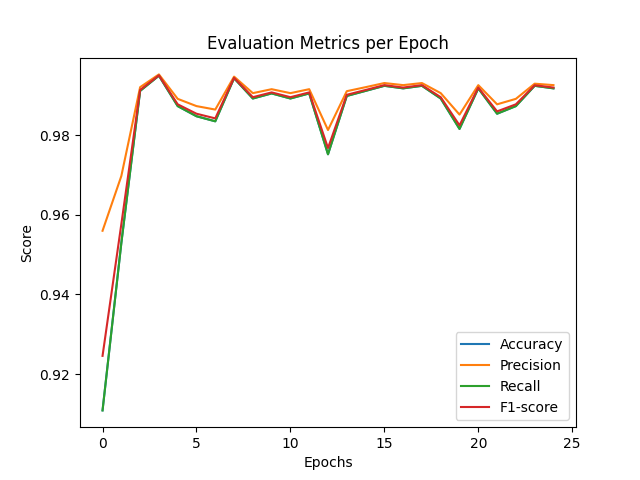
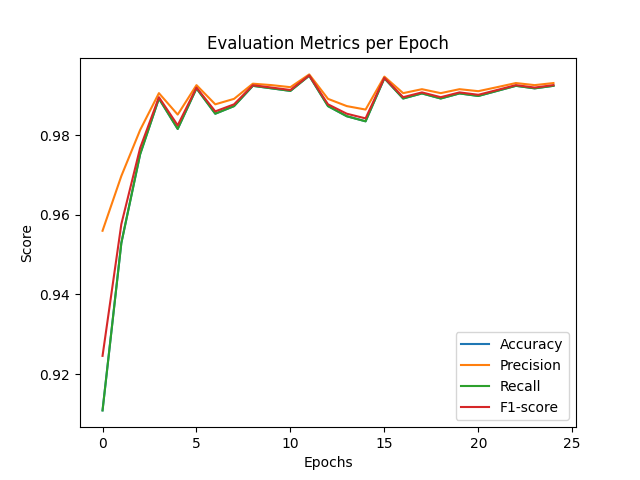
Fixed plotting scores

Changed region(s): [[0.1875, 0.1562, 0.875, 0.5]]

diff --git a/roberta_model/model_eval/plot_model_scores.py b/roberta_model/model_eval/plot_model_scores.py
@@ -1,6 +1,7 @@
 import json
 import matplotlib.pyplot as plt
 import argparse
+from collections import OrderedDict
 
 def plot(json_path, save_path):
 
@@ -8,11 +9,18 @@ def plot(json_path, save_path):
     with open(json_path, 'r') as f:
         data = json.load(f)
 
+    formatted_data = {}
+    for epoch_str, scores in data.items():
+        epoch_string = epoch_str.split("-step")[0].split("=")[1]
+        formatted_data[int(epoch_string)] = scores
+
+    ordered_data = OrderedDict(sorted(formatted_data.items()))
+
     # Extract the scores for each metric
-    acc_scores = [epoch_data['accuracy'] for epoch_data in data.values()]
-    prec_scores = [epoch_data['precision'] for epoch_data in data.values()]
-    rec_scores = [epoch_data['recall'] for epoch_data in data.values()]
-    f1_scores = [epoch_data['f1_score'] for epoch_data in data.values()]
+    acc_scores = [epoch_data['accuracy'] for epoch_data in ordered_data.values()]
+    prec_scores = [epoch_data['precision'] for epoch_data in ordered_data.values()]
+    rec_scores = [epoch_data['recall'] for epoch_data in ordered_data.values()]
+    f1_scores = [epoch_data['f1_score'] for epoch_data in ordered_data.values()]
 
     # Plot the scores over time
     epochs = range(len(data))
